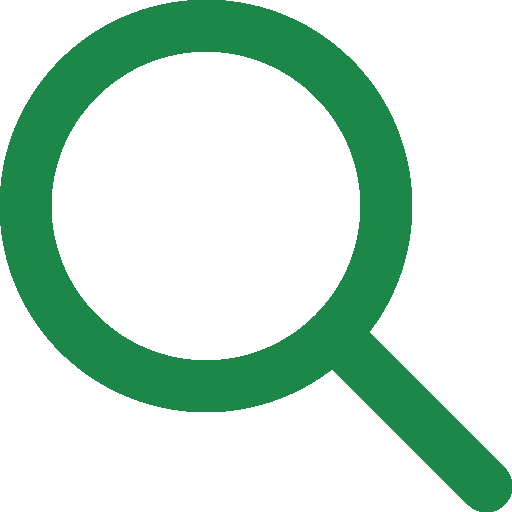
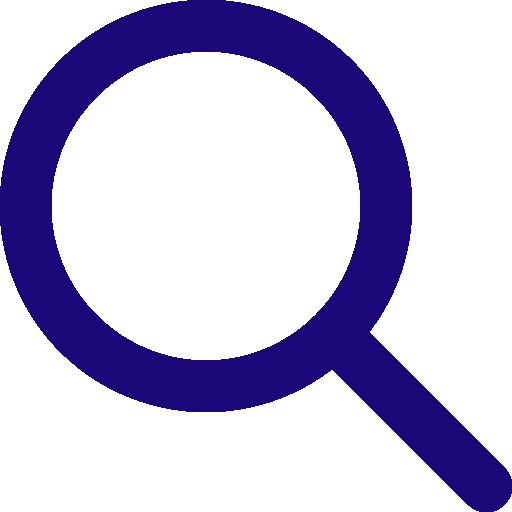
Change color of the header and elements of the header

Changed region(s): [[0.0, 0.0, 1.0, 1.0]]

diff --git a/css/header.css b/css/header.css
@@ -8,7 +8,7 @@ body{
     display: flex;
     width: 100%;
     height: 5vw;
-    background-color: #1d8649;
+    background-color: #091c22;
     align-content: center;
     justify-content: center;
 }
